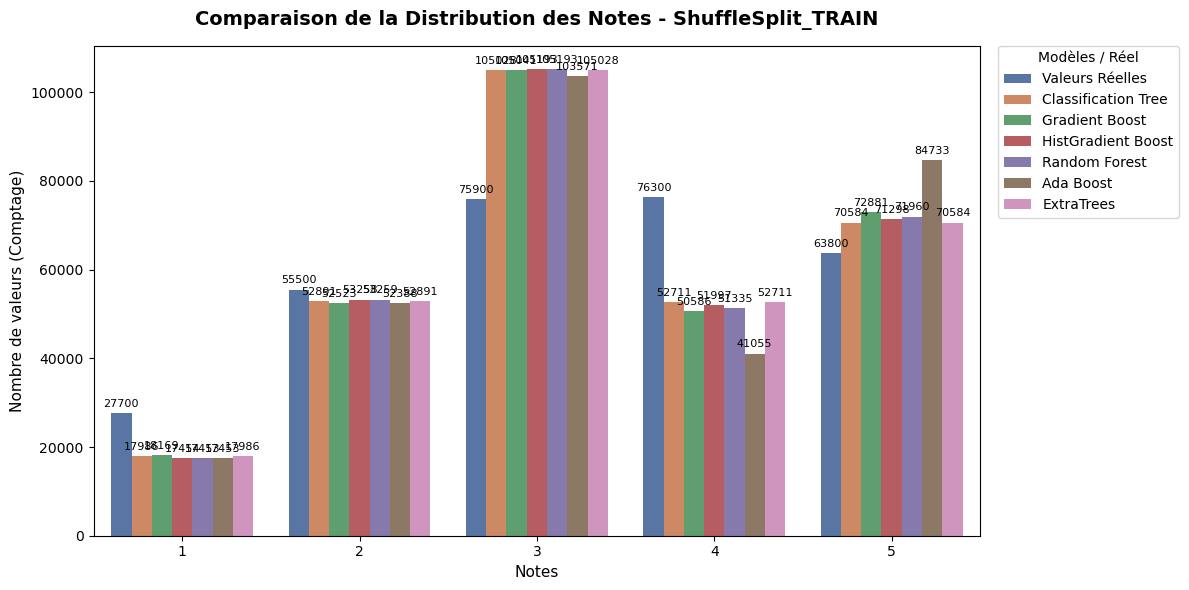
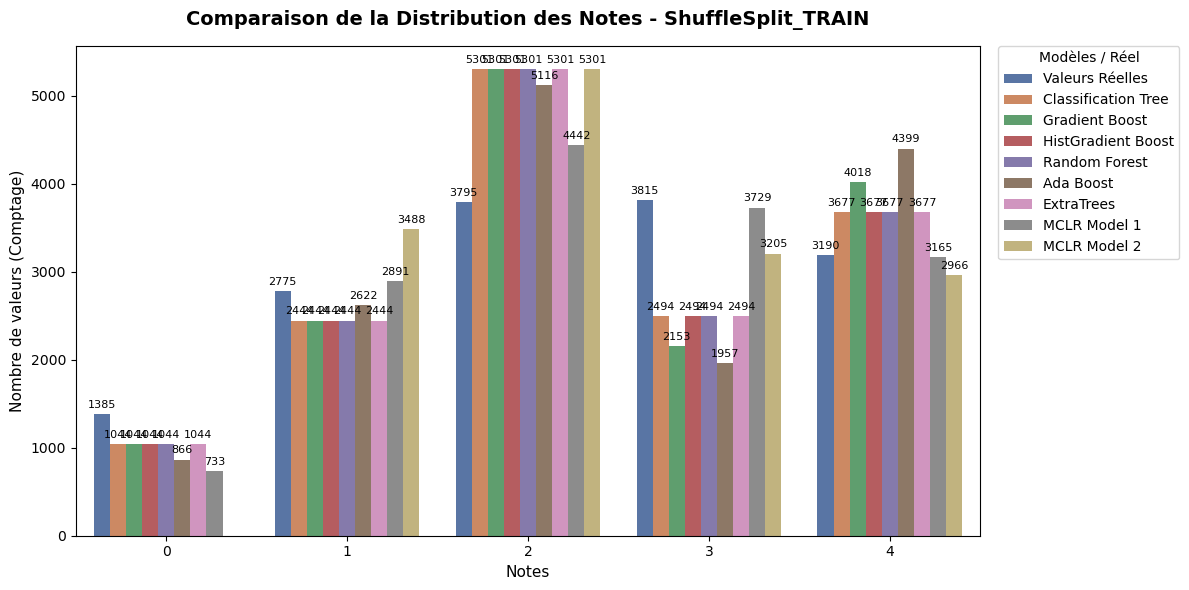
integration of MCLR for shuffle split

diff --git a/utils_benchmark.py b/utils_benchmark.py
@@ -249,20 +249,17 @@ def run_train_test_MCLR(df, dims, test_size=0.2, random_state=42):
         for k, v in test_metrics.items():
             results[name][f'Test {k}'] = v
 
-
-
         y_pred_train_samples = idata_train["posterior_predictive"]["y_obs"].values
-        y_pred_train_flat = y_pred_train_samples.reshape(-1, y_pred_train_samples.shape[-1])  # (tirages, obs)
+        y_pred_train_flat = y_pred_train_samples.reshape(-1, y_pred_train_samples.shape[-1])
         train_predictions_for_plots[name] = mode(y_pred_train_flat, axis=0, keepdims=True).mode[0]
 
-        # Pour le Test
         y_pred_test_samples = idata_test["posterior_predictive"]["y_obs"].values
         y_pred_test_flat = y_pred_test_samples.reshape(-1, y_pred_test_samples.shape[-1])
         test_predictions_for_plots[name] = mode(y_pred_test_flat, axis=0, keepdims=True).mode[0]
 
     return pd.DataFrame(results).T, train_predictions_for_plots, test_predictions_for_plots
 
-def run_shufflesplit(models, X, y, n_splits=5, test_size=0.2, random_state=42):
+def run_shufflesplit_ML(models, X, y, n_splits=5, test_size=0.2, random_state=42):
     cv = StratifiedShuffleSplit(n_splits=n_splits, test_size=test_size, random_state=random_state)
     results = {}
     dict_preds_train = {}
@@ -307,6 +304,123 @@ def run_shufflesplit(models, X, y, n_splits=5, test_size=0.2, random_state=42):
 
             fold_metrics.append(combined_metrics)
 
+        df_folds = pd.DataFrame(fold_metrics)
+        results[name] = df_folds.mean().to_dict()
+        dict_preds_train[name] = np.array(all_train_preds)
+        dict_preds_test[name] = np.array(all_test_preds)
+
+    return pd.DataFrame(results).T, dict_preds_train, y_train_concat, dict_preds_test, y_test_concat
+
+
+def run_shufflesplit_MCLR(df, dims, n_splits=5, test_size=0.2, random_state=42):
+    # Séparation des features et de la cible à partir du DataFrame global
+    X = df.iloc[:, :-1]
+    y = df.iloc[:, -1]
+    models = get_models_MCLR(df, dims)
+    cv = StratifiedShuffleSplit(n_splits=n_splits, test_size=test_size, random_state=random_state)
+    results = {}
+    dict_preds_train = {}
+    dict_preds_test = {}
+
+    splits = list(cv.split(X, y))
+    y_train_concat = []
+    y_test_concat = []
+
+    # 1. Accumulation des vraies valeurs cibles à travers tous les folds
+    for train_idx, test_idx in splits:
+        y_train_concat.extend(y.iloc[train_idx].values)
+        y_test_concat.extend(y.iloc[test_idx].values)
+
+    y_train_concat = np.array(y_train_concat)
+    y_test_concat = np.array(y_test_concat)
+
+    # Fonction utilitaire interne pour extraire le dictionnaire complet requis par pm.set_data
+    def _get_pymc_data_dict(df_fold, y_fold=None):
+        data_dict = {
+            "X_nbr_lanes": df_fold[[col for col in df_fold.columns if col.startswith('nbr_lane_')]].values,
+            "X_type": df_fold[[col for col in df_fold.columns if col.startswith('type_')]].values,
+            "X_slope": df_fold[[col for col in df_fold.columns if col.startswith('slope_')]].values,
+            "X_speed": df_fold[[col for col in df_fold.columns if col.startswith('speed_')]].values,
+            "X_green": df_fold[[col for col in df_fold.columns if col.startswith('green_')]].values,
+            "id_photo": df_fold['id_photo'].values
+        }
+        # Si c'est le Modèle 1, on ajoute les variables socio-démographiques
+        if "X_age" in [v.name for v in model_actif.data_vars]:
+            data_dict.update({
+                "X_age": df_fold[[col for col in df_fold.columns if col.startswith('age_')]].values,
+                "X_gender": df_fold[[col for col in df_fold.columns if col.startswith('gender_')]].values,
+                "X_job": df_fold[[col for col in df_fold.columns if col.startswith('job_')]].values,
+                "X_electric_bike": df_fold[[col for col in df_fold.columns if col.startswith('electric_bike_')]].values,
+                "X_bike_use_frequency": df_fold[
+                    [col for col in df_fold.columns if col.startswith('bike_use_frequency_')]].values,
+                "X_bike_ownership": df_fold[
+                    [col for col in df_fold.columns if col.startswith('bike_ownership_')]].values,
+                "id_personne": df_fold['id_personne'].values
+            })
+        if y_fold is not None:
+            data_dict["y_obs_data"] = y_fold.values
+
+        return data_dict
+
+    # 2. Boucle sur les modèles (votre dictionnaire de modèles PyMC)
+    for name, model_info in models.items():
+        model_actif = model_info[0]
+
+        fold_metrics = []
+        all_train_preds = []
+        all_test_preds = []
+
+        print(f"-> Entraînement et évaluation en Cross-Validation de : {name}")
+
+        for split_idx, (train_idx, test_idx) in enumerate(splits):
+            print(f"   Fold {split_idx + 1}/{n_splits}...")
+
+            df_train = df.iloc[train_idx]
+            df_test = df.iloc[test_idx]
+
+            y_train = df_train.iloc[:, -1]
+            y_test = df_test.iloc[:, -1]
+
+            with model_actif:
+                # --- ÉTAPE A : CONFIGURATION TRAIN & SAMPLING ---
+                train_data_dict = _get_pymc_data_dict(df_train, y_train)
+                pm.set_data(train_data_dict)
+
+                trace = pm.sample(draws=1000, tune=1000, return_inferencedata=True, progressbar=False)
+                idata_train = pm.sample_posterior_predictive(trace, progressbar=False)
+
+                # --- ÉTAPE B : EXTRACTION PRÉDICTIONS TRAIN (MODE) ---
+                y_pred_train_samples = idata_train["posterior_predictive"]["y_obs"].values
+                y_pred_train_flat = y_pred_train_samples.reshape(-1, y_pred_train_samples.shape[-1])
+                train_pred = mode(y_pred_train_flat, axis=0, keepdims=True).mode[0]
+                all_train_preds.extend(train_pred)
+
+                # --- ÉTAPE C : CONFIGURATION TEST & POSTERIOR PREDICTIVE ---
+                test_data_dict = _get_pymc_data_dict(df_test, y_test)
+                pm.set_data(test_data_dict)
+
+                idata_test = pm.sample_posterior_predictive(trace, progressbar=False)
+
+                # --- ÉTAPE D : EXTRACTION PRÉDICTIONS TEST (MODE) ---
+                y_pred_test_samples = idata_test["posterior_predictive"]["y_obs"].values
+                y_pred_test_flat = y_pred_test_samples.reshape(-1, y_pred_test_samples.shape[-1])
+                test_pred = mode(y_pred_test_flat, axis=0, keepdims=True).mode[0]
+                all_test_preds.extend(test_pred)
+
+            # Calcul des métriques bayésiennes globales (moyennées sur l'échantillonnage posterior)
+            train_metrics = get_metrics_MCLR(y_train, idata_train)
+            test_metrics = get_metrics_MCLR(y_test, idata_test)
+
+            # Combinaison des métriques avec préfixes
+            combined_metrics = {}
+            for k, v in train_metrics.items():
+                combined_metrics[f'Train {k}'] = v
+            for k, v in test_metrics.items():
+                combined_metrics[f'Test {k}'] = v
+
+            fold_metrics.append(combined_metrics)
+
+        # 3. Agrégation des résultats du modèle actuel
         df_folds = pd.DataFrame(fold_metrics)
         results[name] = df_folds.mean().to_dict()
         dict_preds_train[name] = np.array(all_train_preds)

diff --git a/script_benchmark.py b/script_benchmark.py
@@ -6,7 +6,8 @@ from sklearn.ensemble import GradientBoostingClassifier, HistGradientBoostingCla
 from sklearn.model_selection import GridSearchCV, train_test_split, StratifiedKFold
 
 random_state=74
-n_splits=100
+n_splits=5
+save = False
 output_dir = "outputs/model_results/benchmark"
 base_csv = "data/survey/data-base.csv"
 personnes_csv = "data/survey/data-personnes.csv"
@@ -32,54 +33,64 @@ def main():
     df_results, preds_train_mclr, preds_test_mclr = run_train_test_MCLR(df, dims, random_state=random_state)
 
     # --- FUSION DES RÉSULTATS DE MÉTRIQUES ---
-    # Option A : Empilement vertical (si df_tt et df_results ont les mêmes colonnes de métriques mais des noms de modèles différents en index)
     df_results_all = pd.concat([df_tt, df_results])
-
-    # Option B : Si vous préférez fusionner horizontalement (métriques ML et MCLR côte à côte pour les mêmes index)
-    # df_results_all = pd.concat([df_tt, df_results], axis=1)
-
     print(df_results_all.to_string())
     df_results_all.to_csv(os.path.join(output_dir, f"results_train_test{name}.csv"))
 
-    # --- VISUALISATIONS COMBINÉES ---
-
+    # --- VISUALISATIONS ---
     print("Clés présentes dans le ML :", list(preds_test_tt.keys()))
     print("Clés présentes dans le MCLR :", list(preds_test_mclr.keys()))
     all_preds_train = {**preds_train_tt, **preds_train_mclr}
     all_preds_test = {**preds_test_tt, **preds_test_mclr}
 
     print("\n --> Génération des graphiques combinés (ML + MCLR)...")
-    # Note : Pour y_train et y_test, on utilise y_train_tt et y_test_tt issus du split scikit-learn
-    plot_confusion_matrices(y_train_tt, all_preds_train, title_suffix=f"TrainTest_TRAIN{name}", save=False, nrows=2,
+    plot_confusion_matrices(y_train_tt, all_preds_train, title_suffix=f"TrainTest_TRAIN{name}", save=save, nrows=2,
                             ncols=4)
-    plot_confusion_matrices(y_test_tt, all_preds_test, title_suffix=f"TrainTest_TEST{name}", save=False, nrows=2,
+    plot_confusion_matrices(y_test_tt, all_preds_test, title_suffix=f"TrainTest_TEST{name}", save=save, nrows=2,
                             ncols=4)
 
-    plot_predictions_distribution(y_train_tt, all_preds_train, title_suffix=f"TrainTest_TRAIN{name}", save=False)
-    plot_predictions_distribution(y_test_tt, all_preds_test, title_suffix=f"TrainTest_TEST{name}", save=False)
-
-    # # 2. SHUFFLE SPLIT
-    # print(f"--- Benchmark : ShuffleSplit ({n_splits}-fold) ---")
-    # df_ss, preds_train_ss, y_train_ss, preds_test_ss, y_test_ss = run_shufflesplit(models, X, y, n_splits=n_splits, random_state=random_state)
-    # print(df_ss.to_string())
-    # df_ss.to_csv(os.path.join(output_dir, f"results_shufflesplit{name}.csv"))
-    #
-    # plot_confusion_matrices(y_train_ss, preds_train_ss, title_suffix=f"ShuffleSplit_TRAIN{name}", save=True)
-    # plot_confusion_matrices(y_test_ss, preds_test_ss, title_suffix=f"ShuffleSplit_TEST{name}", save=True)
-    # plot_predictions_distribution(y_train_ss, preds_train_ss, title_suffix=f"ShuffleSplit_TRAIN{name}", save=True)
-    # plot_predictions_distribution(y_test_ss, preds_test_ss, title_suffix=f"ShuffleSplit_TEST{name}", save=True)
-    # print("\n")
-
-    # # 3. LEAVEONE OUT (LOO)
-    # print("--- Benchmark : Leave-One-Out (LOO) ---")
-    # df_loo, preds_train_loo, y_train_loo, preds_test_loo, y_loo = run_loo(models, X, y)
-    # print(df_loo.to_string())
-    # df_loo.to_csv(os.path.join(output_dir, f"results_loo{name}.csv"))
-    #
-    # plot_confusion_matrices(y_train_loo, preds_train_loo, title_suffix=f"LOO_TRAIN{name}", save=True)
-    # plot_confusion_matrices(y_loo, preds_test_loo, title_suffix=f"LOO_TEST{name}", save=True)
+    plot_predictions_distribution(y_train_tt, all_preds_train, title_suffix=f"TrainTest_TRAIN{name}", save=save)
+    plot_predictions_distribution(y_test_tt, all_preds_test, title_suffix=f"TrainTest_TEST{name}", save=save)
 
 
+
+    # 2. SHUFFLE SPLIT
+    print(f"--- Benchmark : ShuffleSplit ({n_splits}-fold) ---")
+
+    print("\n --> ML")
+    df_ss_ml, preds_train_ss_ml, y_train_ss_ml, preds_test_ss_ml, y_test_ss_ml = run_shufflesplit_ML(
+        models_ML, X, y, n_splits=n_splits, random_state=random_state
+    )
+
+    print("\n --> MCLR")
+    df_ss_mclr, preds_train_ss_mclr, _, preds_test_ss_mclr, _ = run_shufflesplit_MCLR(
+        df, dims, n_splits=n_splits, random_state=random_state
+    )
+
+    # --- FUSION DES RÉSULTATS DE MÉTRIQUES ---
+    df_ss_all = pd.concat([df_ss_ml, df_ss_mclr], axis=0)
+    print(df_ss_all.to_string())
+    df_ss_all.to_csv(os.path.join(output_dir, f"results_shufflesplit{name}.csv"))
+    all_preds_train_ss = {**preds_train_ss_ml, **preds_train_ss_mclr}
+    all_preds_test_ss = {**preds_test_ss_ml, **preds_test_ss_mclr}
+
+    # --- VISUALISATIONS ---
+    print("\n --> Génération des graphiques combinés (ShuffleSplit)...")
+
+    plot_confusion_matrices(
+        y_train_ss_ml, all_preds_train_ss, title_suffix=f"ShuffleSplit_TRAIN{name}", save=save, nrows=2, ncols=4
+    )
+    plot_confusion_matrices(
+        y_test_ss_ml, all_preds_test_ss, title_suffix=f"ShuffleSplit_TEST{name}", save=save, nrows=2, ncols=4
+    )
+
+    plot_predictions_distribution(
+        y_train_ss_ml, all_preds_train_ss, title_suffix=f"ShuffleSplit_TRAIN{name}", save=save
+    )
+    plot_predictions_distribution(
+        y_test_ss_ml, all_preds_test_ss, title_suffix=f"ShuffleSplit_TEST{name}", save=save
+    )
+    print("\n")
 
 
 def opti():
